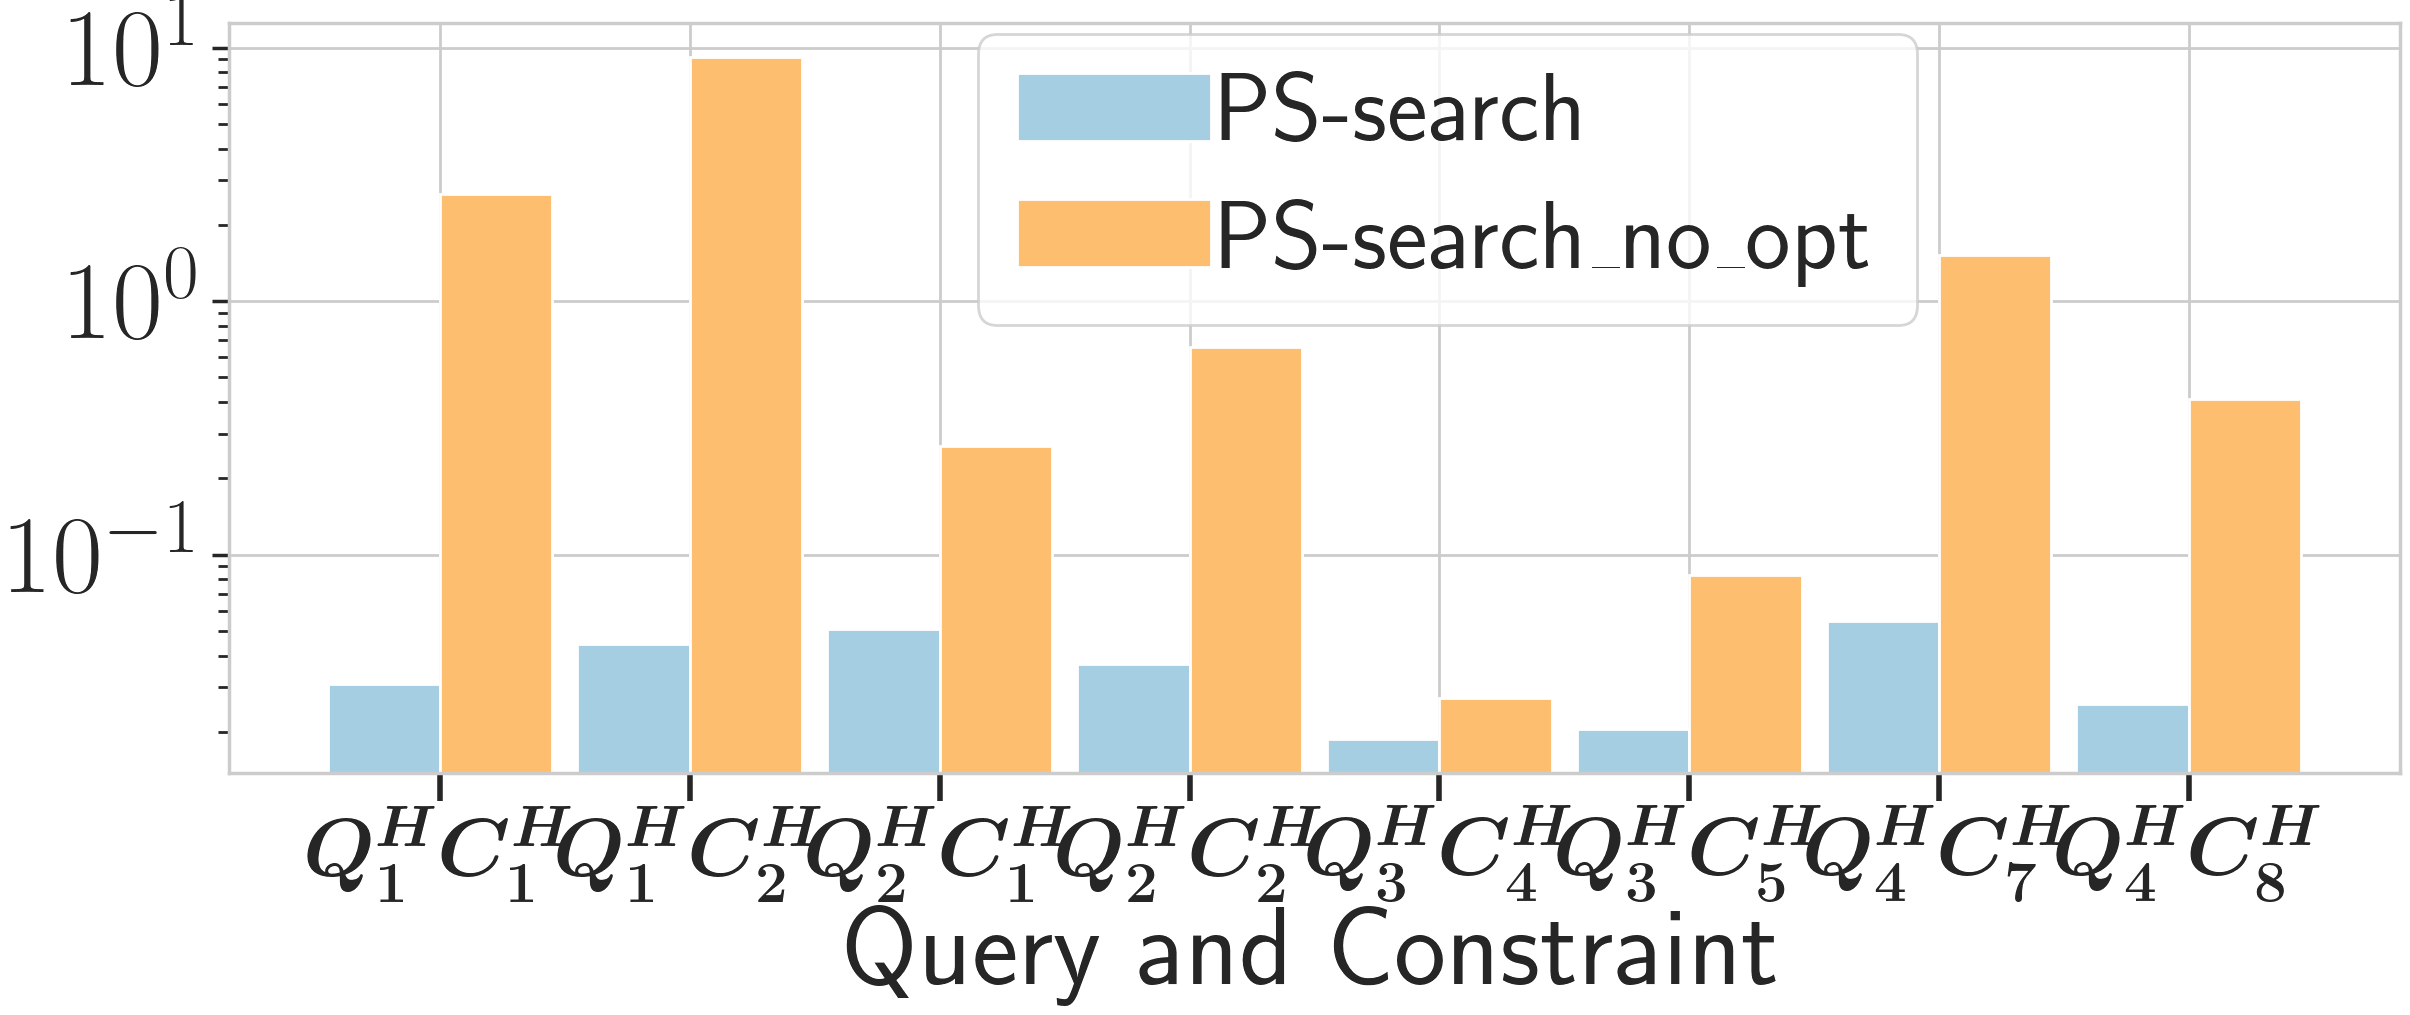
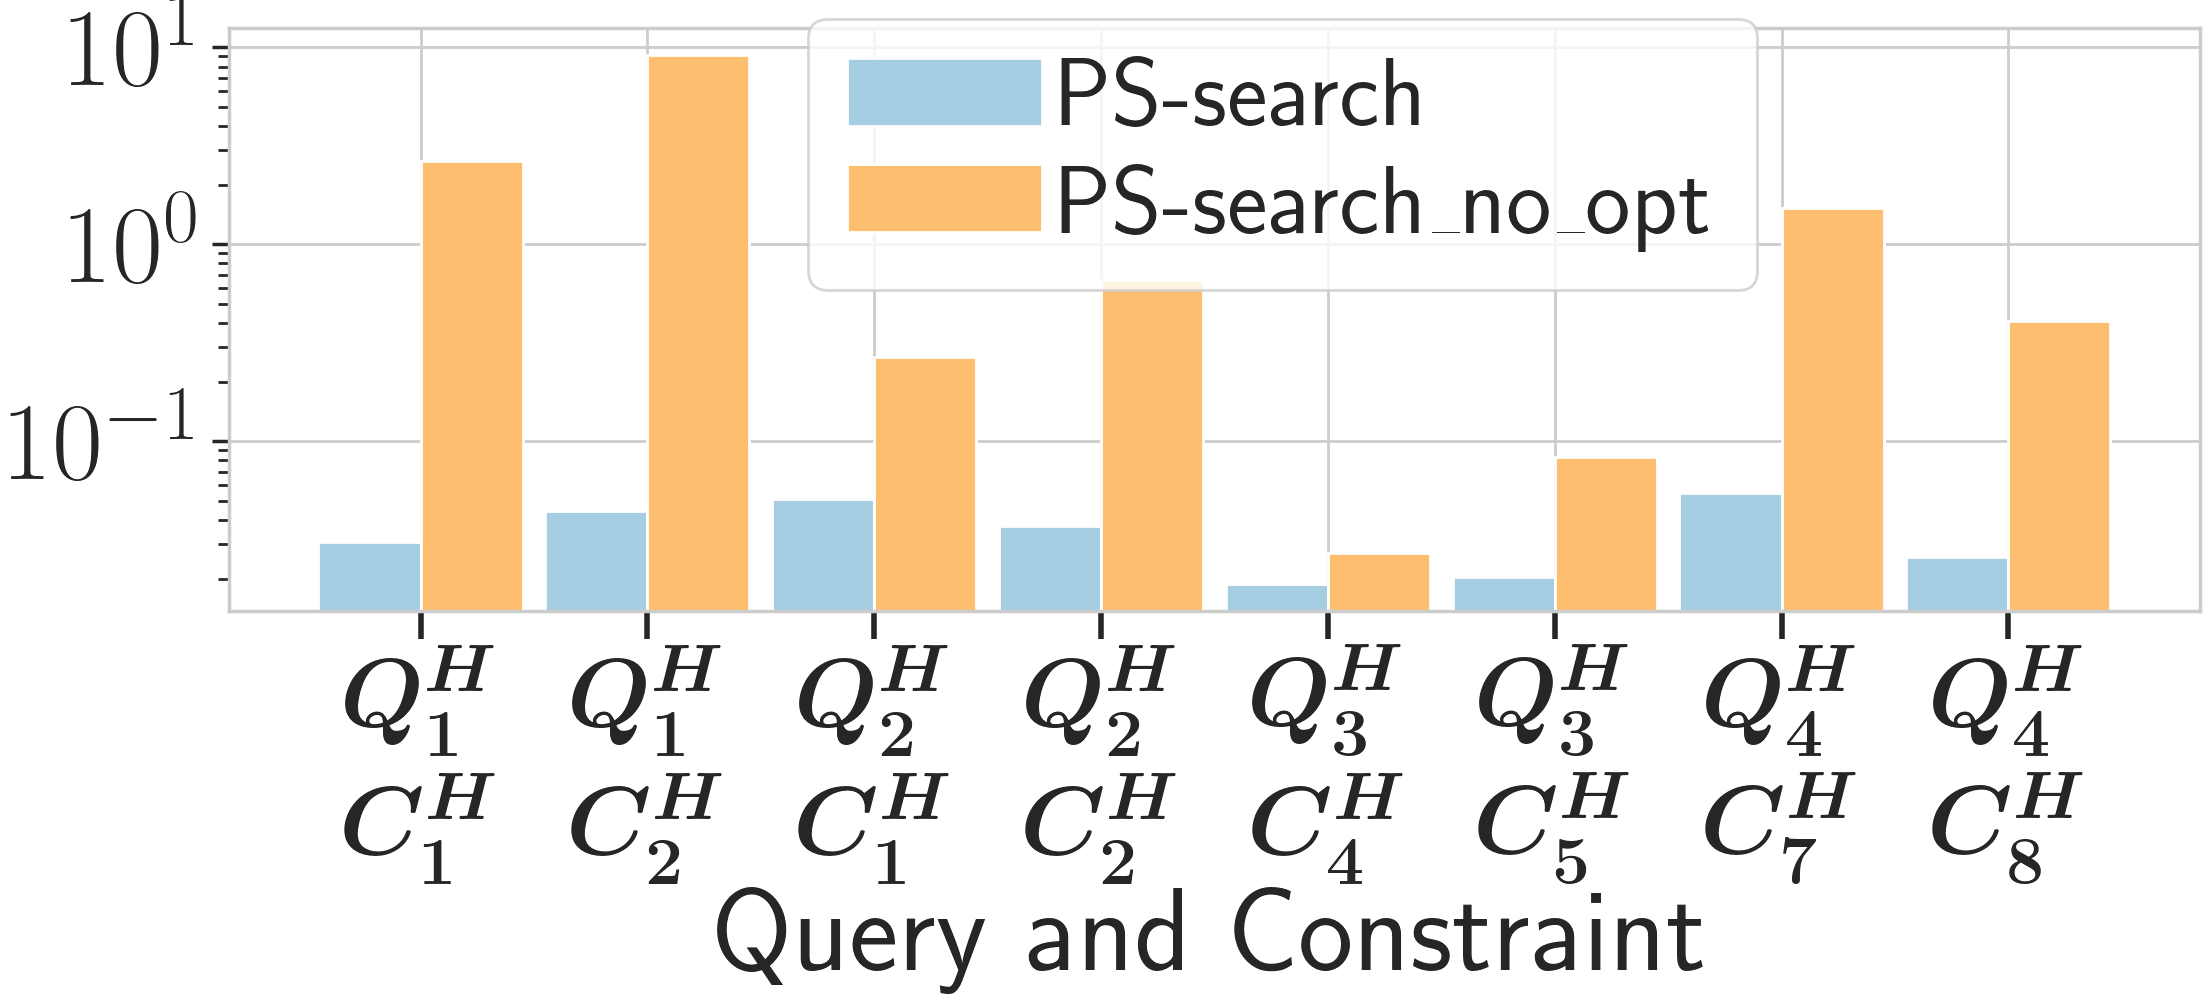
healthcare effect opt

diff --git a/Experiment/healthcare/effect_optimization/fig_4q.py b/Experiment/healthcare/effect_optimization/fig_4q.py
@@ -19,7 +19,7 @@ plt.rc('font', size=70, weight='bold')
 color = ['C1', 'C0', 'C7', 'C6']
 label = ['PS-prov', "PS-search", "PS-prov\_no\_opt", "PS-search\_no\_opt"]
 
-f_size = (26, 12)
+f_size = (24, 12.2)
 
 x_list = list()
 x_naive = list()
@@ -71,20 +71,24 @@ plt.bar(index + bar_width, execution_timebl1, bar_width, color=color[3], label=l
 
 # x_list = ['\\boldmath$Q^H_1$\n\\boldmath$C^H_1$', '\\boldmath$Q^H_1$\n\\boldmath$C^H_2$',
 #           '\\boldmath$Q^H_2$\n\\boldmath$C^H_1$', '\\boldmath$Q^H_2$\n\\boldmath$C^H_2$']
-x_list = ['\\boldmath$Q^H_1$\\boldmath$C^H_1$', '\\boldmath$Q^H_1$\\boldmath$C^H_2$',
-          '\\boldmath$Q^H_2$\\boldmath$C^H_1$', '\\boldmath$Q^H_2$\\boldmath$C^H_2$',
-          '\\boldmath$Q^H_3$\\boldmath$C^H_4$', '\\boldmath$Q^H_3$\\boldmath$C^H_5$',
-          '\\boldmath$Q^H_4$\\boldmath$C^H_7$', '\\boldmath$Q^H_4$\\boldmath$C^H_8$',
+x_list = ['\\boldmath$Q^H_1$\n\\boldmath$C^H_1$', '\\boldmath$Q^H_1$\n\\boldmath$C^H_2$',
+          '\\boldmath$Q^H_2$\n\\boldmath$C^H_1$', '\\boldmath$Q^H_2$\n\\boldmath$C^H_2$',
+          '\\boldmath$Q^H_3$\n\\boldmath$C^H_4$', '\\boldmath$Q^H_3$\n\\boldmath$C^H_5$',
+          '\\boldmath$Q^H_4$\n\\boldmath$C^H_7$', '\\boldmath$Q^H_4$\n\\boldmath$C^H_8$',
           ]
 
-plt.xticks(np.arange(0, 8) + bar_width/2, x_list, rotation=0, fontsize=60)
+plt.xticks(np.arange(0, 8) + bar_width/2, x_list, rotation=0, fontsize=70)
 plt.yticks(fontsize=80, weight='bold')
 
-plt.xlabel('Query and Constraint', fontsize=80, weight='bold')
+plt.xlabel('Query and Constraint', fontsize=85, weight='bold')
 
 plt.yscale('log')
-lgnd = plt.legend(loc='upper right', bbox_to_anchor=(0.8, 1.05), fontsize=70, ncol=1, labelspacing=0.4,
-                  handletextpad=0.1, markerscale=0.5, columnspacing=0.5)
+lgnd = plt.legend(loc='upper right', bbox_to_anchor=(0.8, 1.10), fontsize=70, ncol=1, labelspacing=0.2,
+                  handletextpad=0.2, markerscale=0.2, columnspacing=0.4)
+
+# lgnd = plt.legend(loc='upper right', bbox_to_anchor=(1.03, 1.05), fontsize=70, ncol=2, labelspacing=0.2,
+#                   handletextpad=0.2, markerscale=0.2, columnspacing=0.4)
+
 
 plt.tight_layout()
 plt.savefig("healthcare_optimization_effect_4q.png", bbox_inches='tight')

diff --git a/Experiment/healthcare/effect_optimization/fig.py b/Experiment/healthcare/effect_optimization/fig.py
@@ -19,7 +19,7 @@ plt.rc('font', size=70, weight='bold')
 color = ['C1', 'C0', 'C7', 'C6']
 label = ['PS-prov', "PS-search", "PS-prov\_no\_opt", "PS-search\_no\_opt"]
 
-f_size = (14, 12)
+f_size = (14, 12.5)
 
 x_list = list()
 x_naive = list()
@@ -71,17 +71,17 @@ plt.bar(index + bar_width, execution_timebl1, bar_width, color=color[3], label=l
 
 # x_list = ['\\boldmath$Q^H_1$\n\\boldmath$C^H_1$', '\\boldmath$Q^H_1$\n\\boldmath$C^H_2$',
 #           '\\boldmath$Q^H_2$\n\\boldmath$C^H_1$', '\\boldmath$Q^H_2$\n\\boldmath$C^H_2$']
-x_list = ['\\boldmath$Q^H_1$\\boldmath$C^H_1$', '\\boldmath$Q^H_1$\\boldmath$C^H_2$',
-          '\\boldmath$Q^H_2$\\boldmath$C^H_1$', '\\boldmath$Q^H_2$\\boldmath$C^H_2$']
+x_list = ['\\boldmath$Q^H_1$\n\\boldmath$C^H_1$', '\\boldmath$Q^H_1$\n\\boldmath$C^H_2$',
+          '\\boldmath$Q^H_2$\n\\boldmath$C^H_1$', '\\boldmath$Q^H_2$\n\\boldmath$C^H_2$']
 
 
-plt.xticks(np.arange(0, 4) + bar_width/2, x_list, rotation=0, fontsize=54)
+plt.xticks(np.arange(0, 4) + bar_width/2, x_list, rotation=0, fontsize=70)
 plt.yticks(fontsize=80, weight='bold')
 
-plt.xlabel('Query and Constraint', fontsize=80, weight='bold')
+plt.xlabel('Query and Constraint', fontsize=85, weight='bold')
 
 plt.yscale('log')
-lgnd = plt.legend(loc='upper right', bbox_to_anchor=(1.04, 0.93), fontsize=55, ncol=1, labelspacing=0.4,
+lgnd = plt.legend(loc='upper right', bbox_to_anchor=(1.04, 0.98), fontsize=55, ncol=1, labelspacing=0.4,
                   handletextpad=0.1, markerscale=0.5, columnspacing=0.5)
 
 plt.tight_layout()
